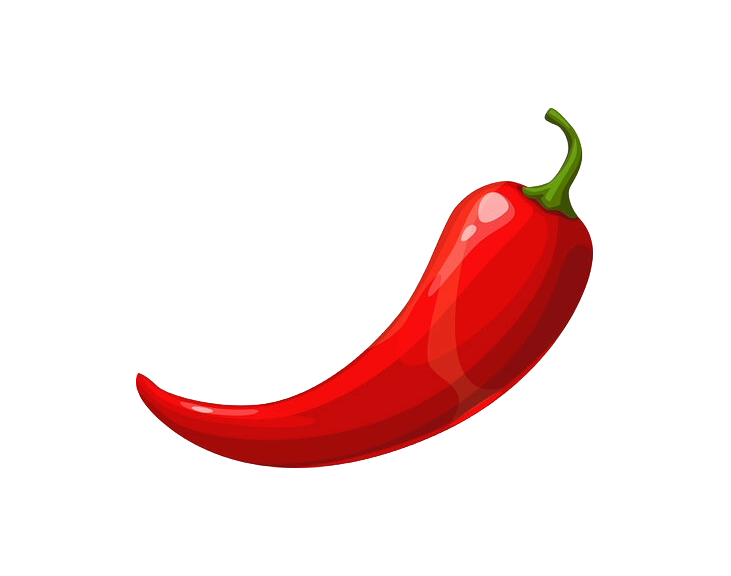
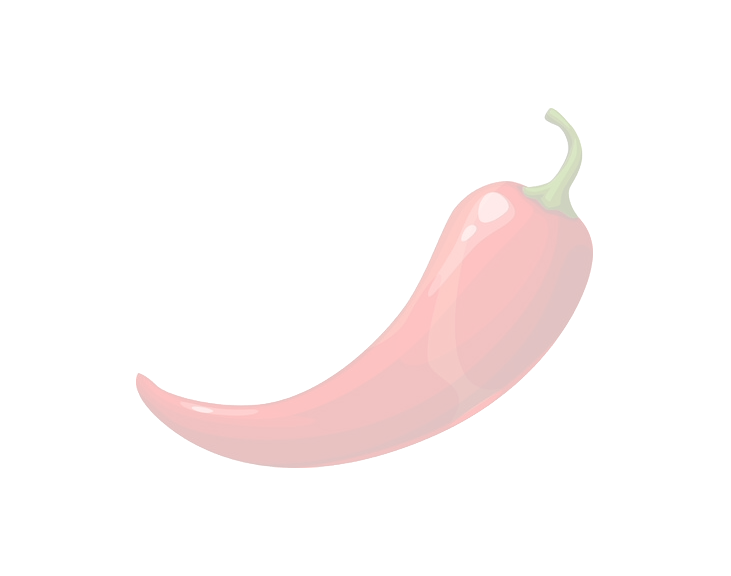
Updated chili-pepper.png for a more transparent background

Changed region(s): [[0.1806, 0.1875, 0.8126, 0.8125]]

diff --git a/client/src/pages/Signup.css b/client/src/pages/Signup.css
@@ -1,0 +1,66 @@
+/* Signup.css */
+.main {
+    display: flex;
+    flex-direction: column;
+    justify-content: flex-start;
+    margin-bottom: 16px;
+  }
+  
+  .container {
+    width: 100%;
+    max-width: 768px; /* This is roughly equivalent to Tailwind's max-w-md */
+    background-color: #ffffff;
+    box-shadow: 0 4px 6px rgba(0, 0, 0, 0.1);
+    border-radius: 0.375rem; /* Similar to Tailwind's rounded */
+    padding: 32px; /* px-8 pt-6 pb-8 */
+    margin-bottom: 16px;
+  }
+  
+  .heading {
+    font-size: 1.5rem; /* text-2xl */
+    font-weight: bold;
+    color: #4a5568; /* text-gray-900 */
+    margin-bottom: 16px;
+  }
+  
+  .label {
+    display: block;
+    color: #4a5568; /* text-gray-700 */
+    font-size: 0.875rem; /* text-sm */
+    font-weight: bold;
+    margin-bottom: 8px;
+  }
+  
+  .input {
+    width: 100%;
+    padding: 0.5rem 0.75rem;
+    border: 1px solid #e2e8f0; /* Tailwind's default border color */
+    border-radius: 0.375rem; /* Similar to Tailwind's rounded */
+    color: #4a5568; /* Similar to Tailwind's text-gray-700 */
+    margin-bottom: 16px; /* Space between inputs */
+  }
+  
+  .button {
+    background-color: #3182ce; /* bg-blue-500 */
+    color: white;
+    font-weight: bold;
+    padding: 0.5rem 1rem;
+    border: none;
+    border-radius: 0.375rem; /* Similar to Tailwind's rounded */
+    cursor: pointer;
+  }
+  
+  .button:hover {
+    background-color: #2b6cb0; /* hover:bg-blue-700 */
+  }
+  
+  .error-message {
+    background-color: #fed7d7; /* bg-red-100 */
+    border: 1px solid #f56565; /* border-red-400 */
+    color: #e53e3e; /* text-red-700 */
+    padding: 16px;
+    border-radius: 0.375rem; /* Similar to Tailwind's rounded */
+    margin-top: 16px; /* mt-3 */
+    position: relative;
+  }
+  

diff --git a/client/src/pages/Signup.jsx b/client/src/pages/Signup.jsx
@@ -49,7 +49,7 @@ const Signup = () => {
     };
 
     return (
-        <main className="flex-row justify-center mb-4">
+        <main className="flex-row justify-start mb-4">
             <div className="w-full max-w-md">
                 <div className="bg-white shadow-md rounded px-8 pt-6 pb-8 mb-4">
                     <h4 className="text-2xl font-bold text-gray-900 mb-4">Sign Up</h4>

diff --git a/client/src/pages/Navigation.css b/client/src/pages/Navigation.css
@@ -1,4 +1,3 @@
-/* Navigation.css */
 .navbar {
   background-color: #DBEE7B;
   padding: 16px;
